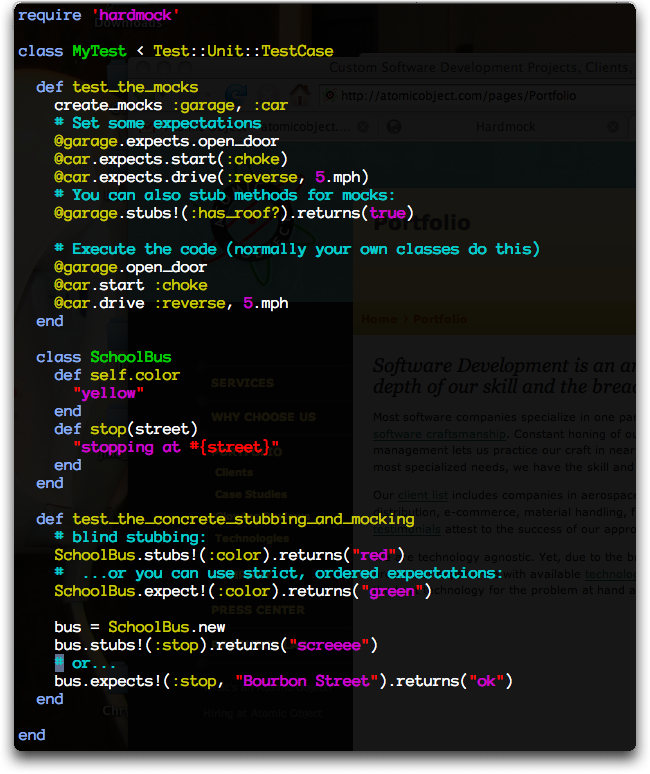
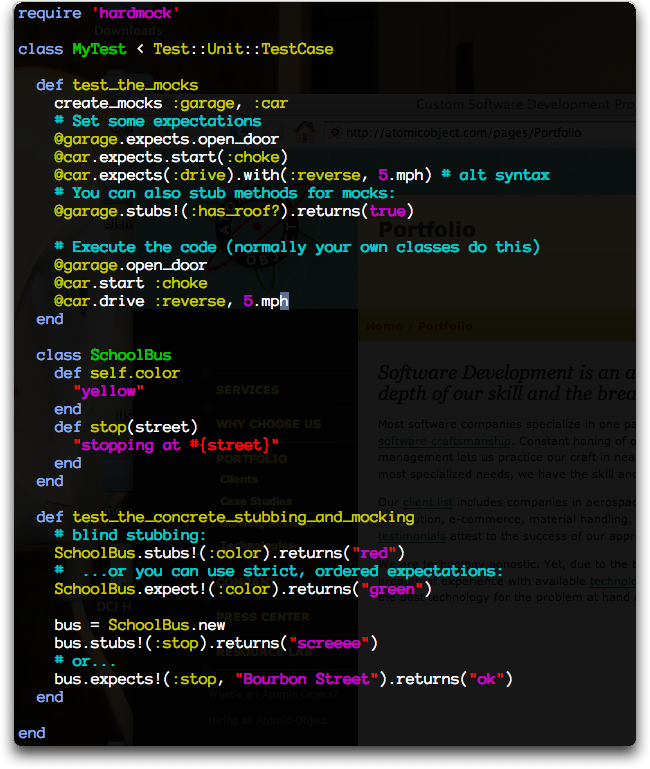
Updated sample code
git-svn-id: http://hardmock.rubyforge.org/svn/trunk@64 48d1a0da-1ed6-4f58-8415-457aad5d95da

diff --git a/homepage/demo.rb b/homepage/demo.rb
@@ -7,7 +7,7 @@ class MyTest < Test::Unit::TestCase
     # Set some expectations
     @garage.expects.open_door
     @car.expects.start(:choke)
-    @car.expects.drive(:reverse, 5.mph)
+    @car.expects(:drive).with(:reverse, 5.mph) # alt syntax
     # You can also stub methods for mocks:
     @garage.stubs!(:has_roof?).returns(true)
 
